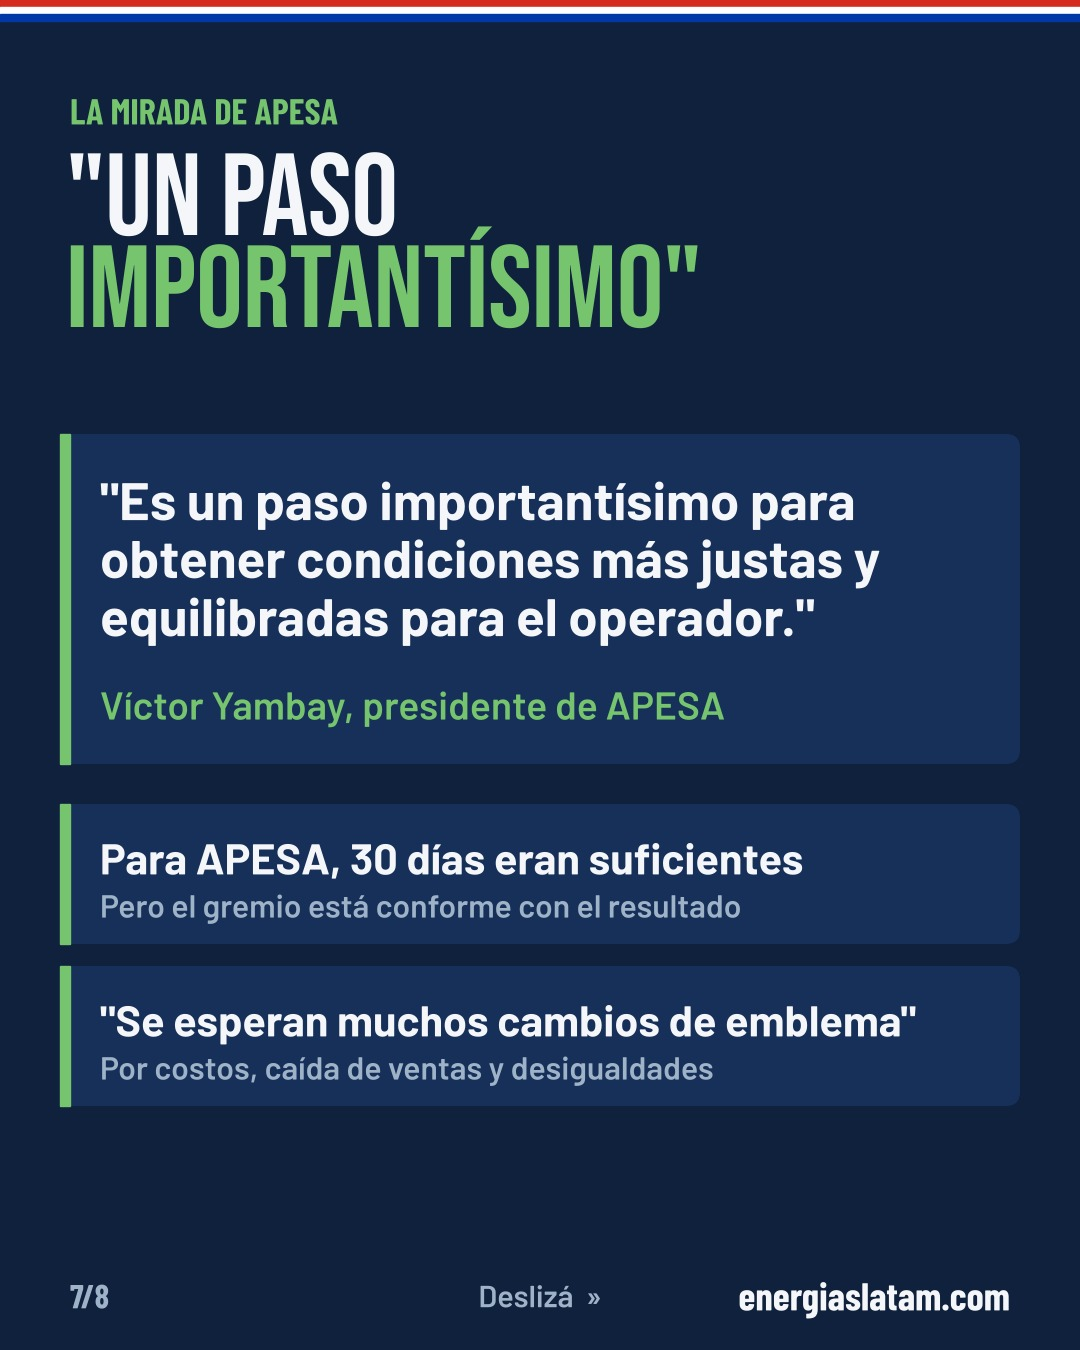
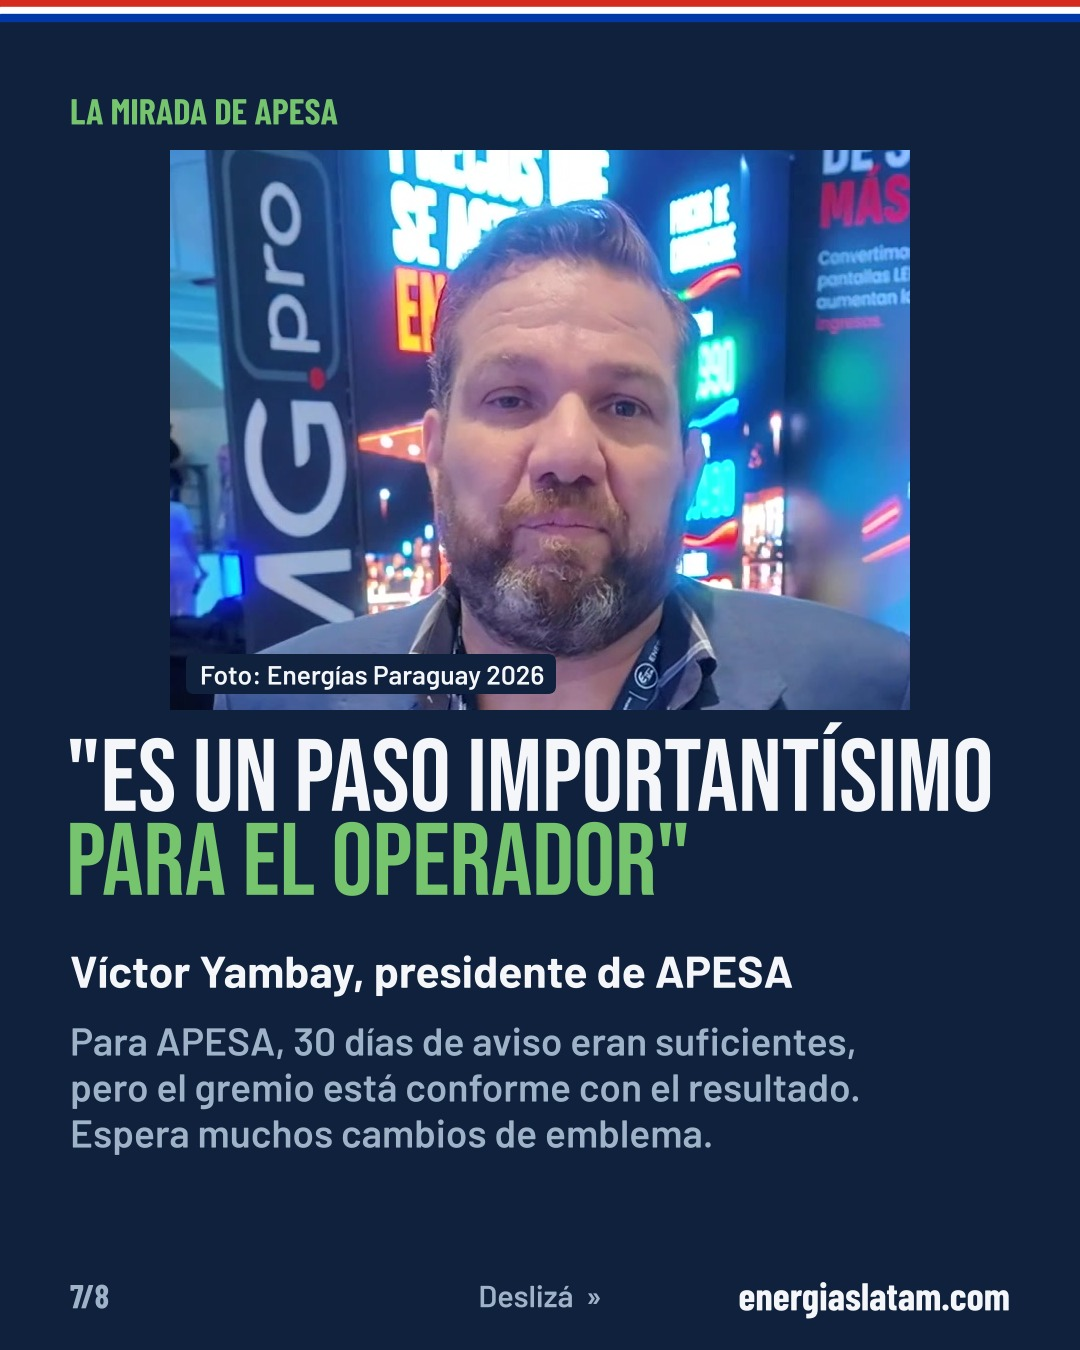
Nota cambio de emblema: foto de Víctor Yambay y placa con su cita
Claude-Session: https://claude.ai/code/session_01HHGRFrapr8AXyd2C4Baz1m

diff --git a/notas/2026-11-12-mic-cambio-emblema-60-dias-resolucion-857.html b/notas/2026-11-12-mic-cambio-emblema-60-dias-resolucion-857.html
@@ -10,7 +10,7 @@
 <p>En los considerandos, el MIC explica que con el régimen anterior el operador debía avisar con 90 días y que, si la distribuidora saliente usaba todo el plazo de registro, el proceso podía extenderse hasta unos 120 días, con una posible interrupción de la actividad y consecuencias económicas. El ministerio sostiene que 60 días alcanzan para coordinar la transición y apoya la medida en la libertad de actividad económica y de competencia.</p>
 <h2>La mirada de APESA</h2>
 <p>Víctor Yambay, presidente de APESA, dijo a La Estación del Futuro que el gremio recibió la resolución "con mucho optimismo" y destacó la apertura del MIC y de su equipo para mejorar la regulación del sector.</p>
-<blockquote>"Si bien existen muchas más necesidades que se tienen que atender, este es un paso importantísimo para obtener condiciones más justas y equilibradas para el operador."<cite>Víctor Yambay, presidente de APESA</cite></blockquote>
+<figure><img src="img/2026-11-12-mic-cambio-emblema-60-dias-resolucion-857-3.jpg" alt="Víctor Yambay, presidente de APESA: es un paso importantísimo para obtener condiciones más justas y equilibradas para el operador"><figcaption>Víctor Yambay, presidente de APESA, en Energías Paraguay 2026. "Si bien existen muchas más necesidades que se tienen que atender, este es un paso importantísimo", dijo.</figcaption></figure>
 <ul><li><b>Qué cambia en la práctica:</b> según Yambay, los nuevos plazos le permiten al operador no frenar su actividad y "no depender excesivamente del solo criterio de la distribuidora".</li><li><b>¿Alcanzan 60 días?</b> Para APESA, con 30 días era suficiente, porque el cambio de emblema ya no depende del MIC: el ministerio solo lo registra y no puede oponerse. "De igual forma, estamos conformes con el resultado", aclaró.</li><li><b>Qué esperan:</b> Yambay sostuvo que el aumento de los costos operativos de las estaciones y las políticas de mercado están provocando una fuerte caída de las ventas y desigualdades en el sector. "Por ello se esperan muchos cambios de emblema, buscando mejores y más equitativas condiciones de trabajo", afirmó.</li><li><b>Qué le recomienda al operador:</b> "Cada empresario debería evaluar qué es lo mejor para su zona y su negocio".</li></ul>
 <p>Sobre lo que queda pendiente, el titular de APESA dijo que el gremio busca reglas de juego para un sector "más ordenado, equitativo, sin distorsiones y, por sobre todas las cosas, rentable". Agradeció al MIC y a su área de combustibles, e invitó a los operadores a acercarse a la asociación.</p>
 <h2>La obligación nueva para la distribuidora entrante</h2>

diff --git a/revision/em12_carr.py b/revision/em12_carr.py
@@ -65,12 +65,16 @@ y=title(ax,['MÁS','COMPETENCIA'])
 cards(ax,[('Menos espera','60 días alcanzan para coordinar la transición'),('Sin cortes','Evitar interrupciones de la actividad'),('El argumento del MIC','Libertad de actividad económica y de competencia')],y+60,h=140)
 save2(fig,6)
 fig,ax=base(7,'LA MIRADA DE APESA')
-y=title(ax,['"UN PASO','IMPORTANTÍSIMO"'])
-rb(ax,60,y+50,960,330,CARD); ax.add_patch(Rectangle((60,y+50),10,330,color=G))
-for j,t in enumerate(['"Es un paso importantísimo para','obtener condiciones más justas y','equilibradas para el operador."']):
-    ax.text(100,y+115+j*58,t,fontfamily=B,fontweight='bold',fontsize=38,color=W,va='center')
-ax.text(100,y+320,'Víctor Yambay, presidente de APESA',fontfamily=B,fontweight='semibold',fontsize=28,color=G,va='center')
-cards(ax,[('Para APESA, 30 días eran suficientes','Pero el gremio está conforme con el resultado'),('"Se esperan muchos cambios de emblema"','Por costos, caída de ventas y desigualdades')],y+420,h=140)
+ph=Image.open('/tmp/claude-0/-home-claude/ba48a484-4b4b-549d-9611-4438eea46fb5/scratchpad/yam/g_07.jpg').convert('RGB').crop((0,0,740,760))
+phh=int(760*1080/740); ax.imshow(ph.resize((1080,phh)),extent=(0,1080,150+phh*0.62,150),zorder=1) if False else None
+hh=560; cr=ph.crop((0,0,740,560)); ax.imshow(cr,extent=(170,910,150+hh,150),zorder=1)
+rb(ax,186,150+hh-56,370,40,BG,8); ax.text(200,150+hh-36,'Foto: Energías Paraguay 2026',fontfamily=B,fontweight='semibold',fontsize=19,color=W,va='center',zorder=3)
+yy=150+hh+70
+for j,t in enumerate(['"ES UN PASO IMPORTANTÍSIMO','PARA EL OPERADOR"']):
+    ax.text(66,yy+j*84,t,fontfamily=BB,fontsize=74,color=W if j==0 else G,va='center')
+ax.text(70,yy+190,'Víctor Yambay, presidente de APESA',fontfamily=B,fontweight='bold',fontsize=32,color=W,va='center')
+for j,t in enumerate(['Para APESA, 30 días de aviso eran suficientes,','pero el gremio está conforme con el resultado.','Espera muchos cambios de emblema.']):
+    ax.text(70,yy+260+j*46,t,fontfamily=B,fontweight='semibold',fontsize=28,color=M,va='center')
 save2(fig,7)
 fig,ax=base(8,'QUÉ SIGNIFICA PARA LA ESTACIÓN')
 y=title(ax,['MÁS PODER','PARA NEGOCIAR'])
